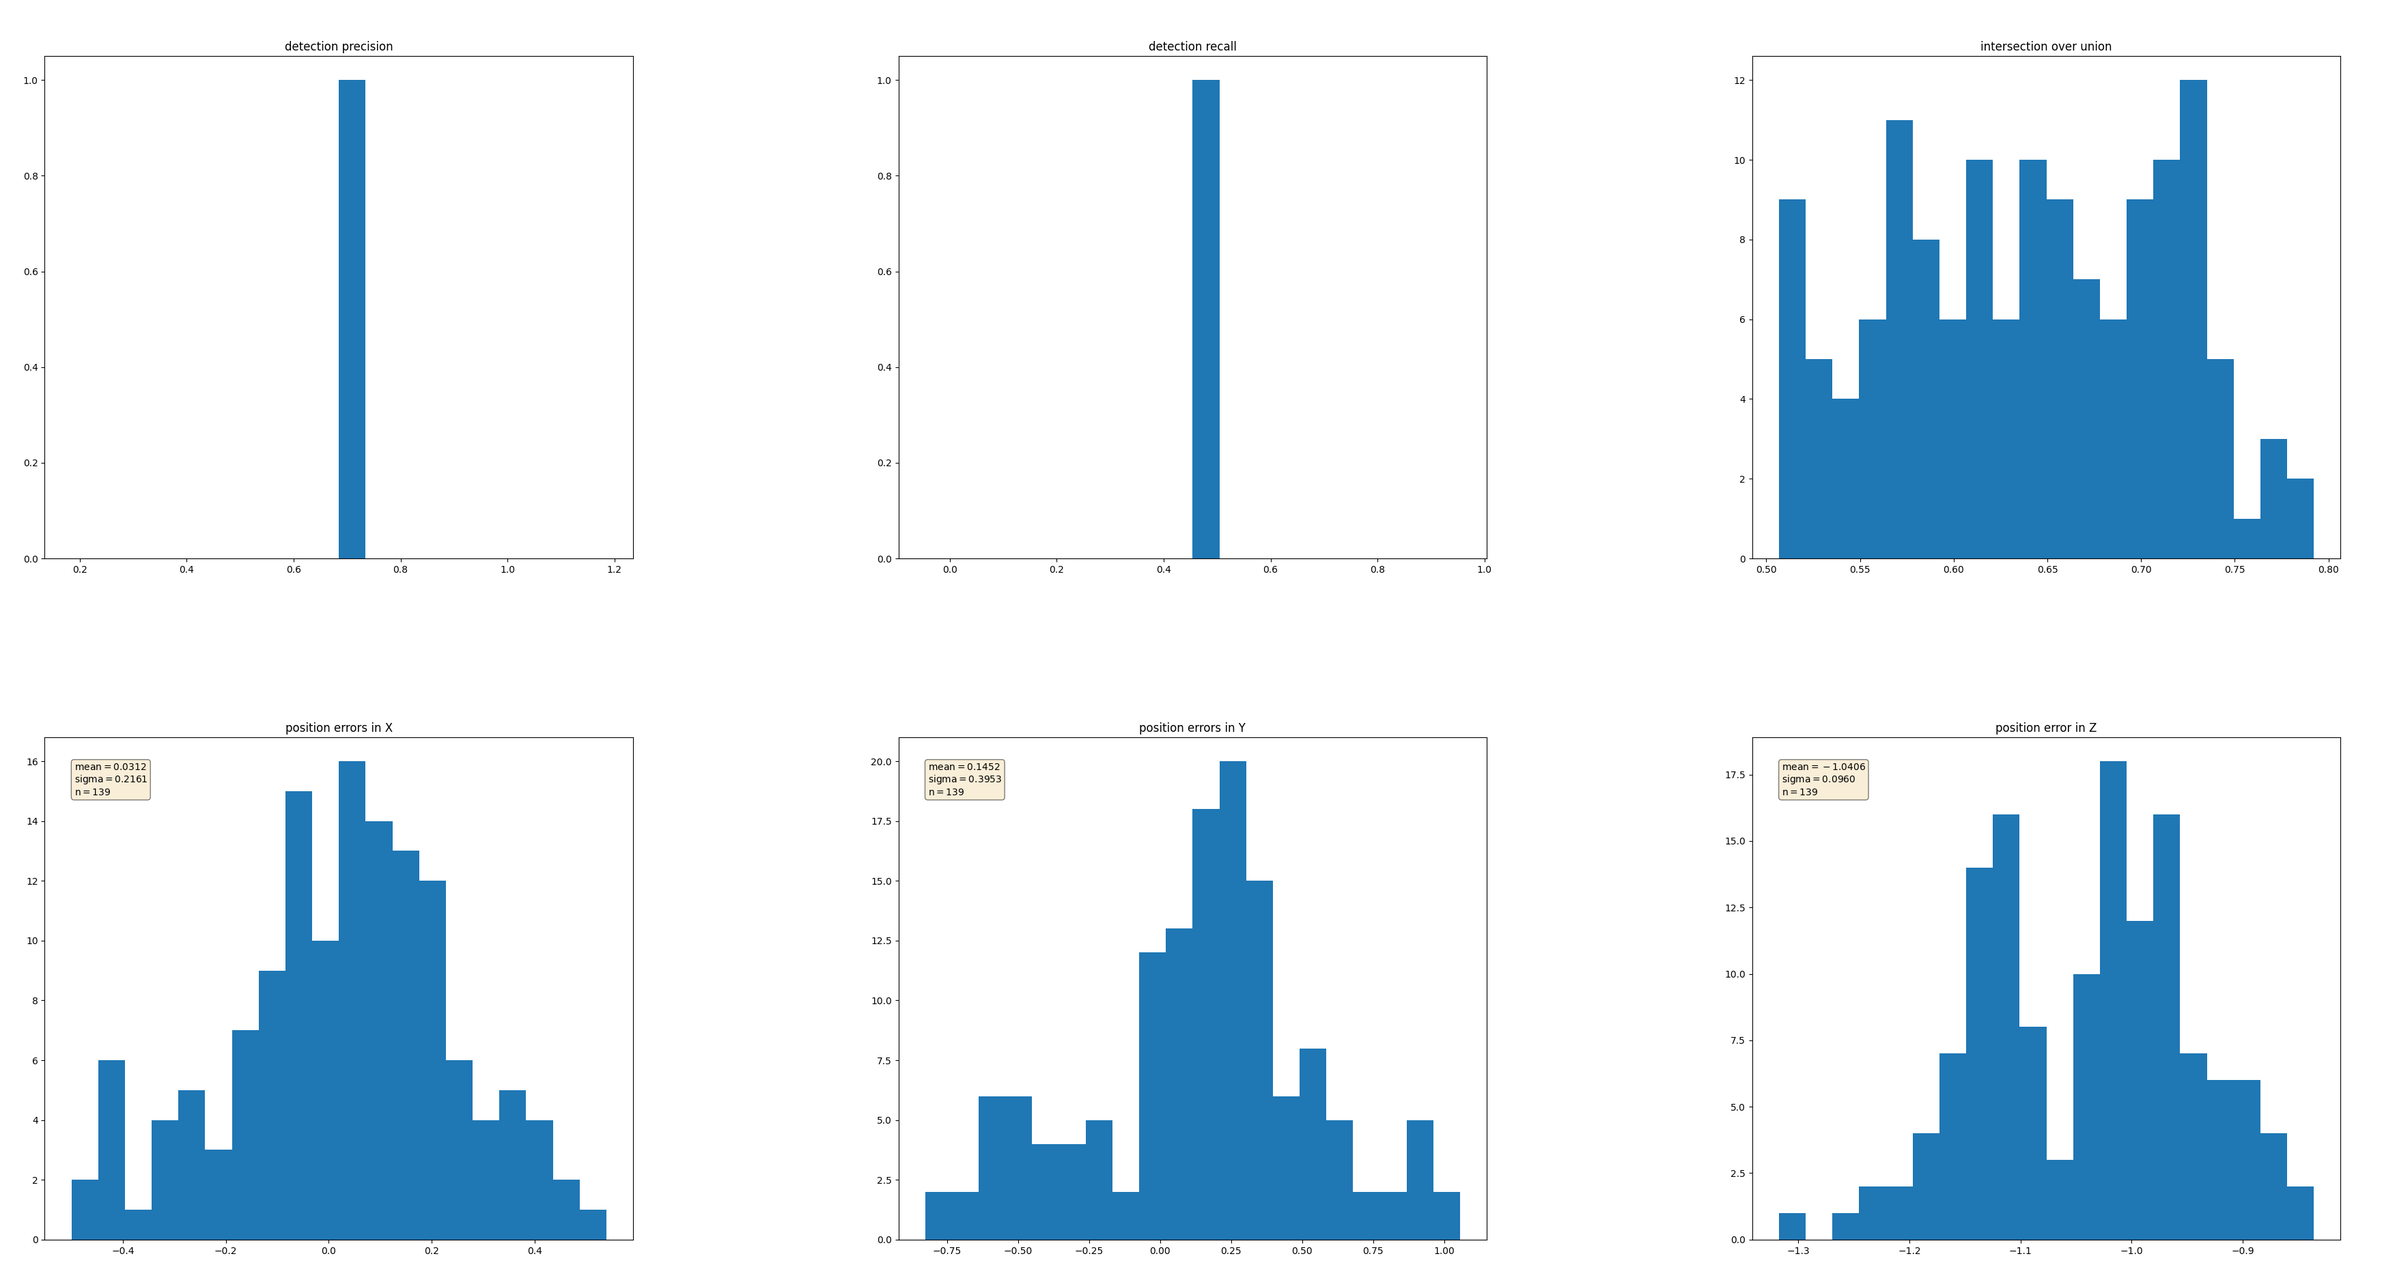
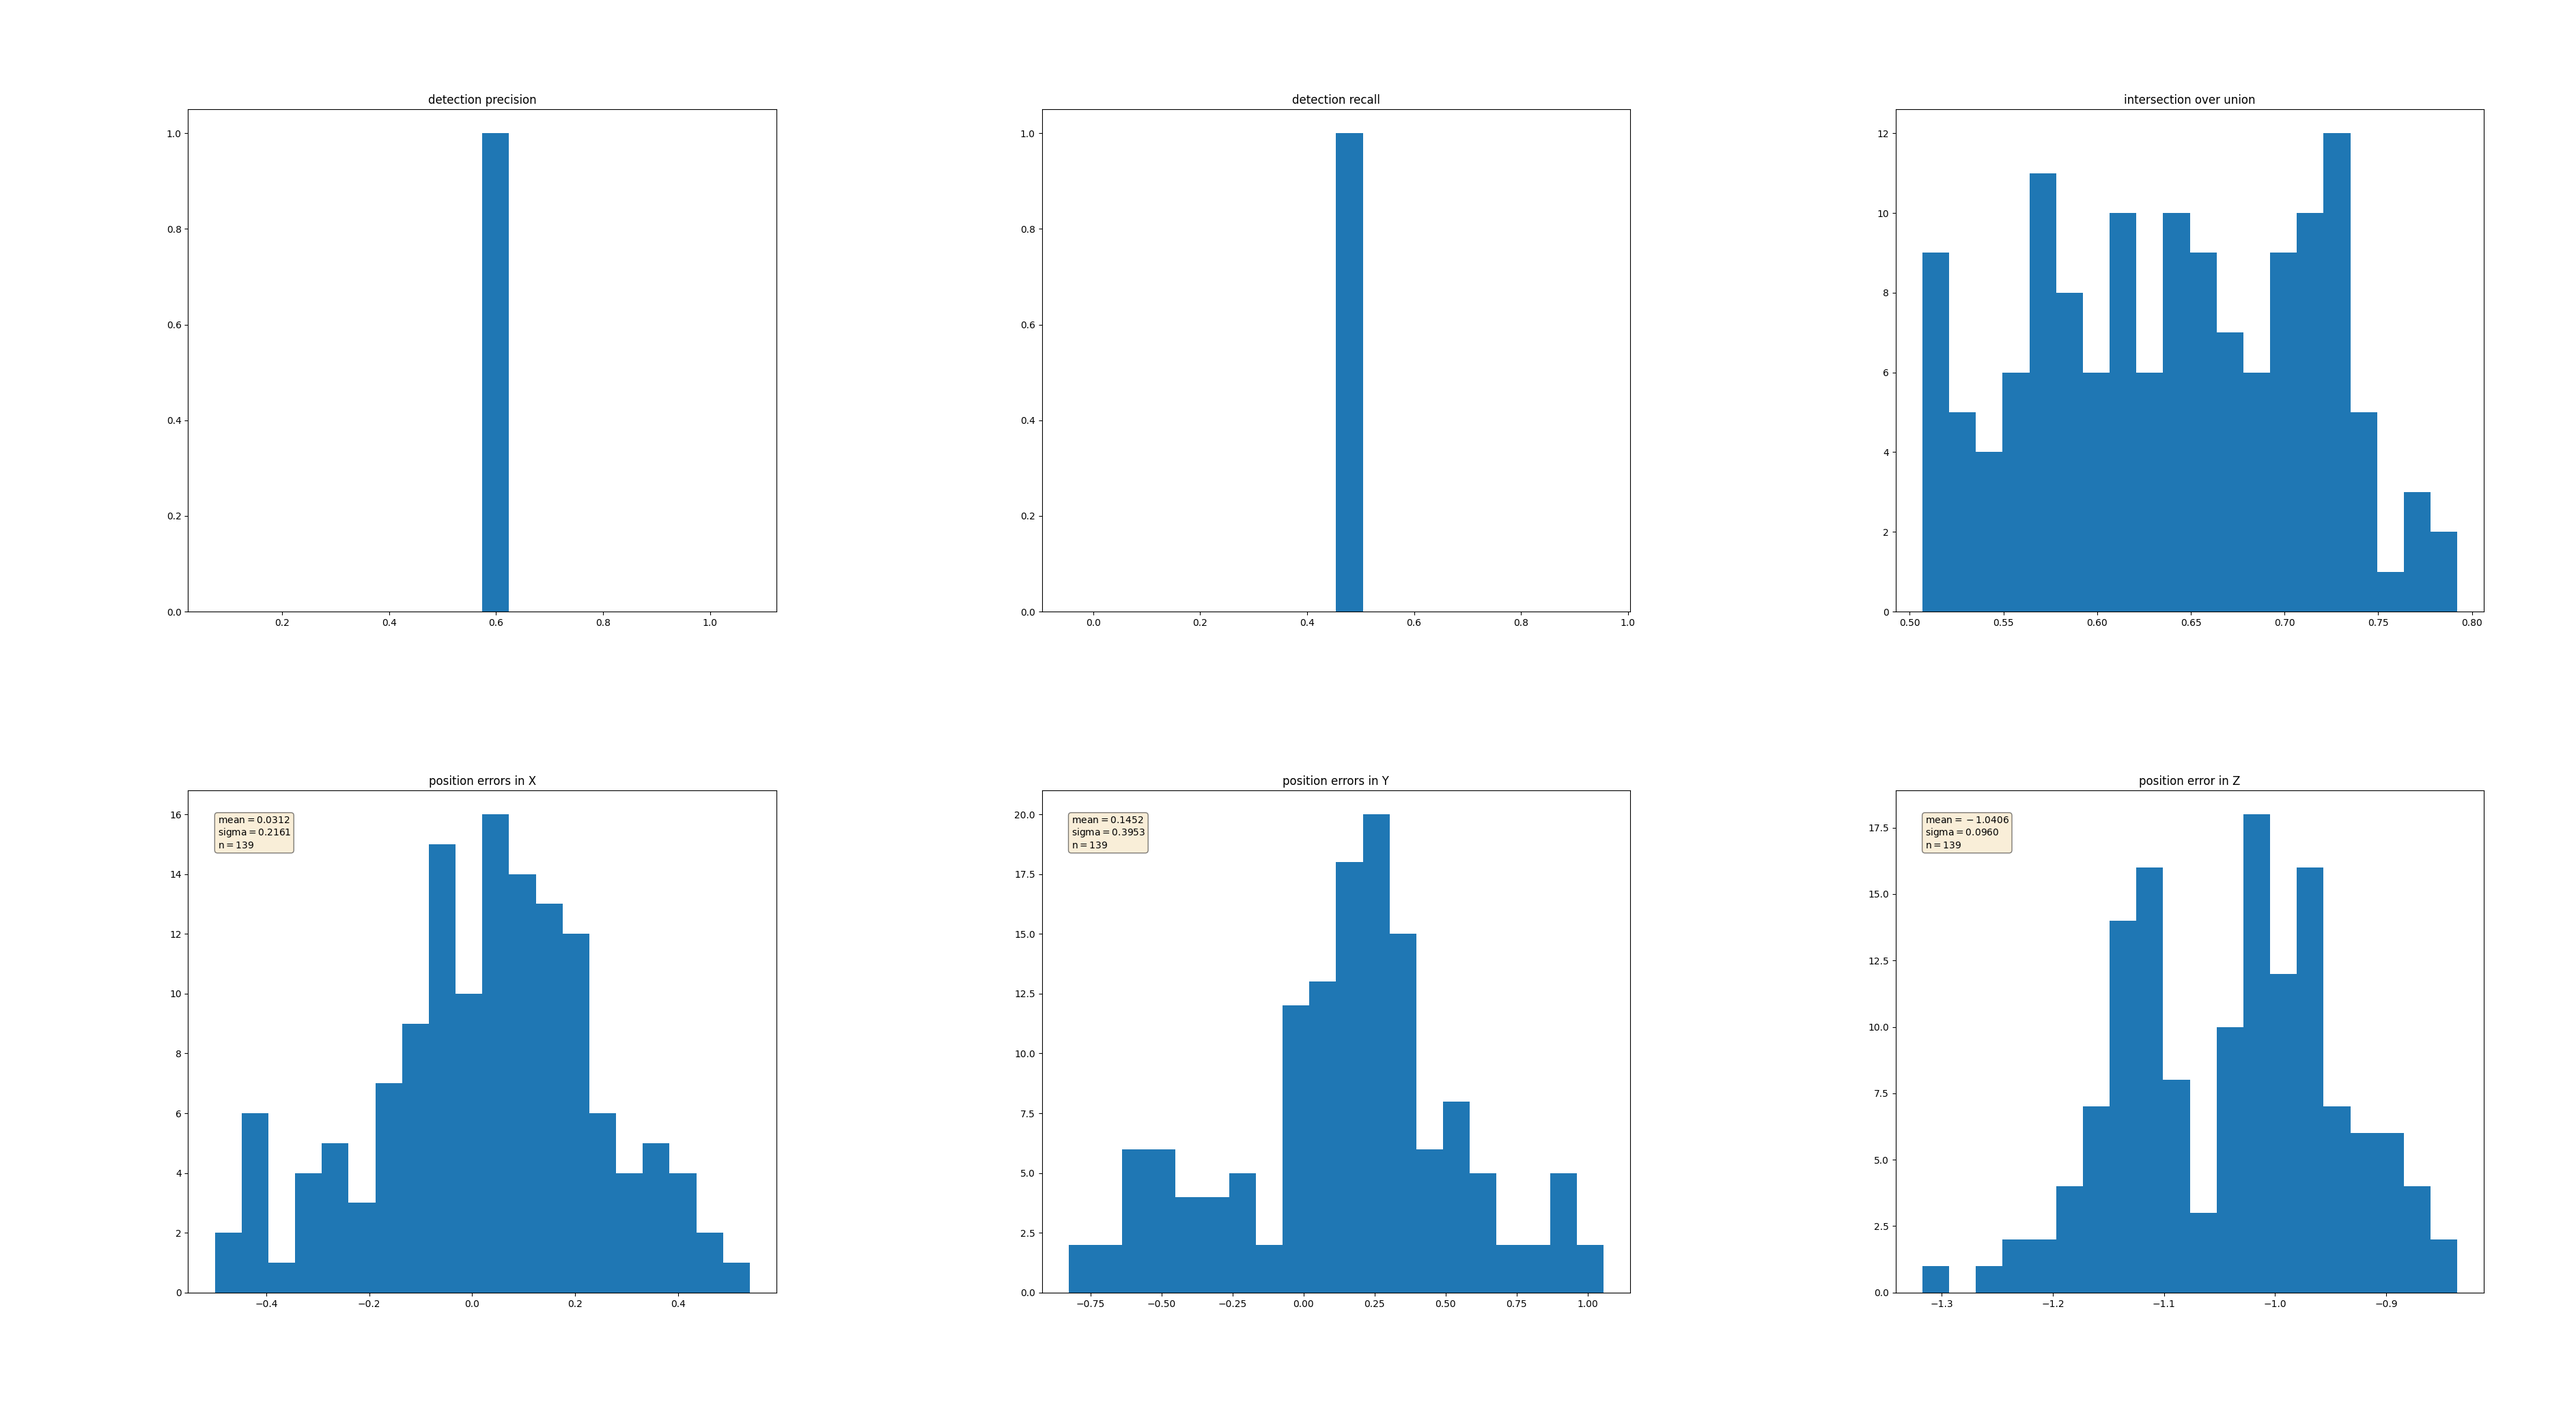
Second commit.

diff --git a/student/objdet_eval.py b/student/objdet_eval.py
@@ -71,7 +71,6 @@ def measure_detection_performance(detections, labels, labels_valid, min_iou=0.5)
                 
                 ## step 5 : compute the intersection over union (IOU) between label and detection bounding-box
                 
-                #iou = tools.calculate_iou(label_corners, detection_corners)
                 label_polygon = Polygon(label_corners)
                 detection_polygon = Polygon(detection_corners)
                 iou = label_polygon.intersection(detection_polygon).area / label_polygon.union(detection_polygon).area
@@ -106,7 +105,8 @@ def measure_detection_performance(detections, labels, labels_valid, min_iou=0.5)
     false_negatives = all_positives - true_positives
 
     ## step 3 : compute the number of false positives
-    false_positives = all_positives - len(detections)
+    false_positives = len(detections) - true_positives
+    
     
     #######
     ####### ID_S4_EX2 END #######     

diff --git a/README.md b/README.md
@@ -114,8 +114,8 @@ python3 loop_over_dataset_ID_S4_EX3_darknet.py
 
 ```
 student task ID_S4_EX3
-all_positives=306, true_positives=287, false_negatives=19, false_positives=5
-precision = 0.9828767123287672, recall = 0.9379084967320261
+all_positives=306, true_positives=287, false_negatives=19, false_positives=14
+precision = 0.9534883720930233, recall = 0.9379084967320261
 ```
 
 ![IMAGES/results_darknet.png](IMAGES/results_darknet.png)
@@ -125,8 +125,9 @@ python3 loop_over_dataset_ID_S4_EX3_fpn_resnet.py
 ```
 
 ```
-all_positives=306, true_positives=139, false_negatives=167, false_positives=64
-precision = 0.6847290640394089, recall = 0.4542483660130719
+student task ID_S4_EX3
+all_positives=306, true_positives=139, false_negatives=167, false_positives=103
+precision = 0.5743801652892562, recall = 0.4542483660130719
 ```
 
 ![IMAGES/results_darknet.png](IMAGES/results_fpn_resnet.png)
